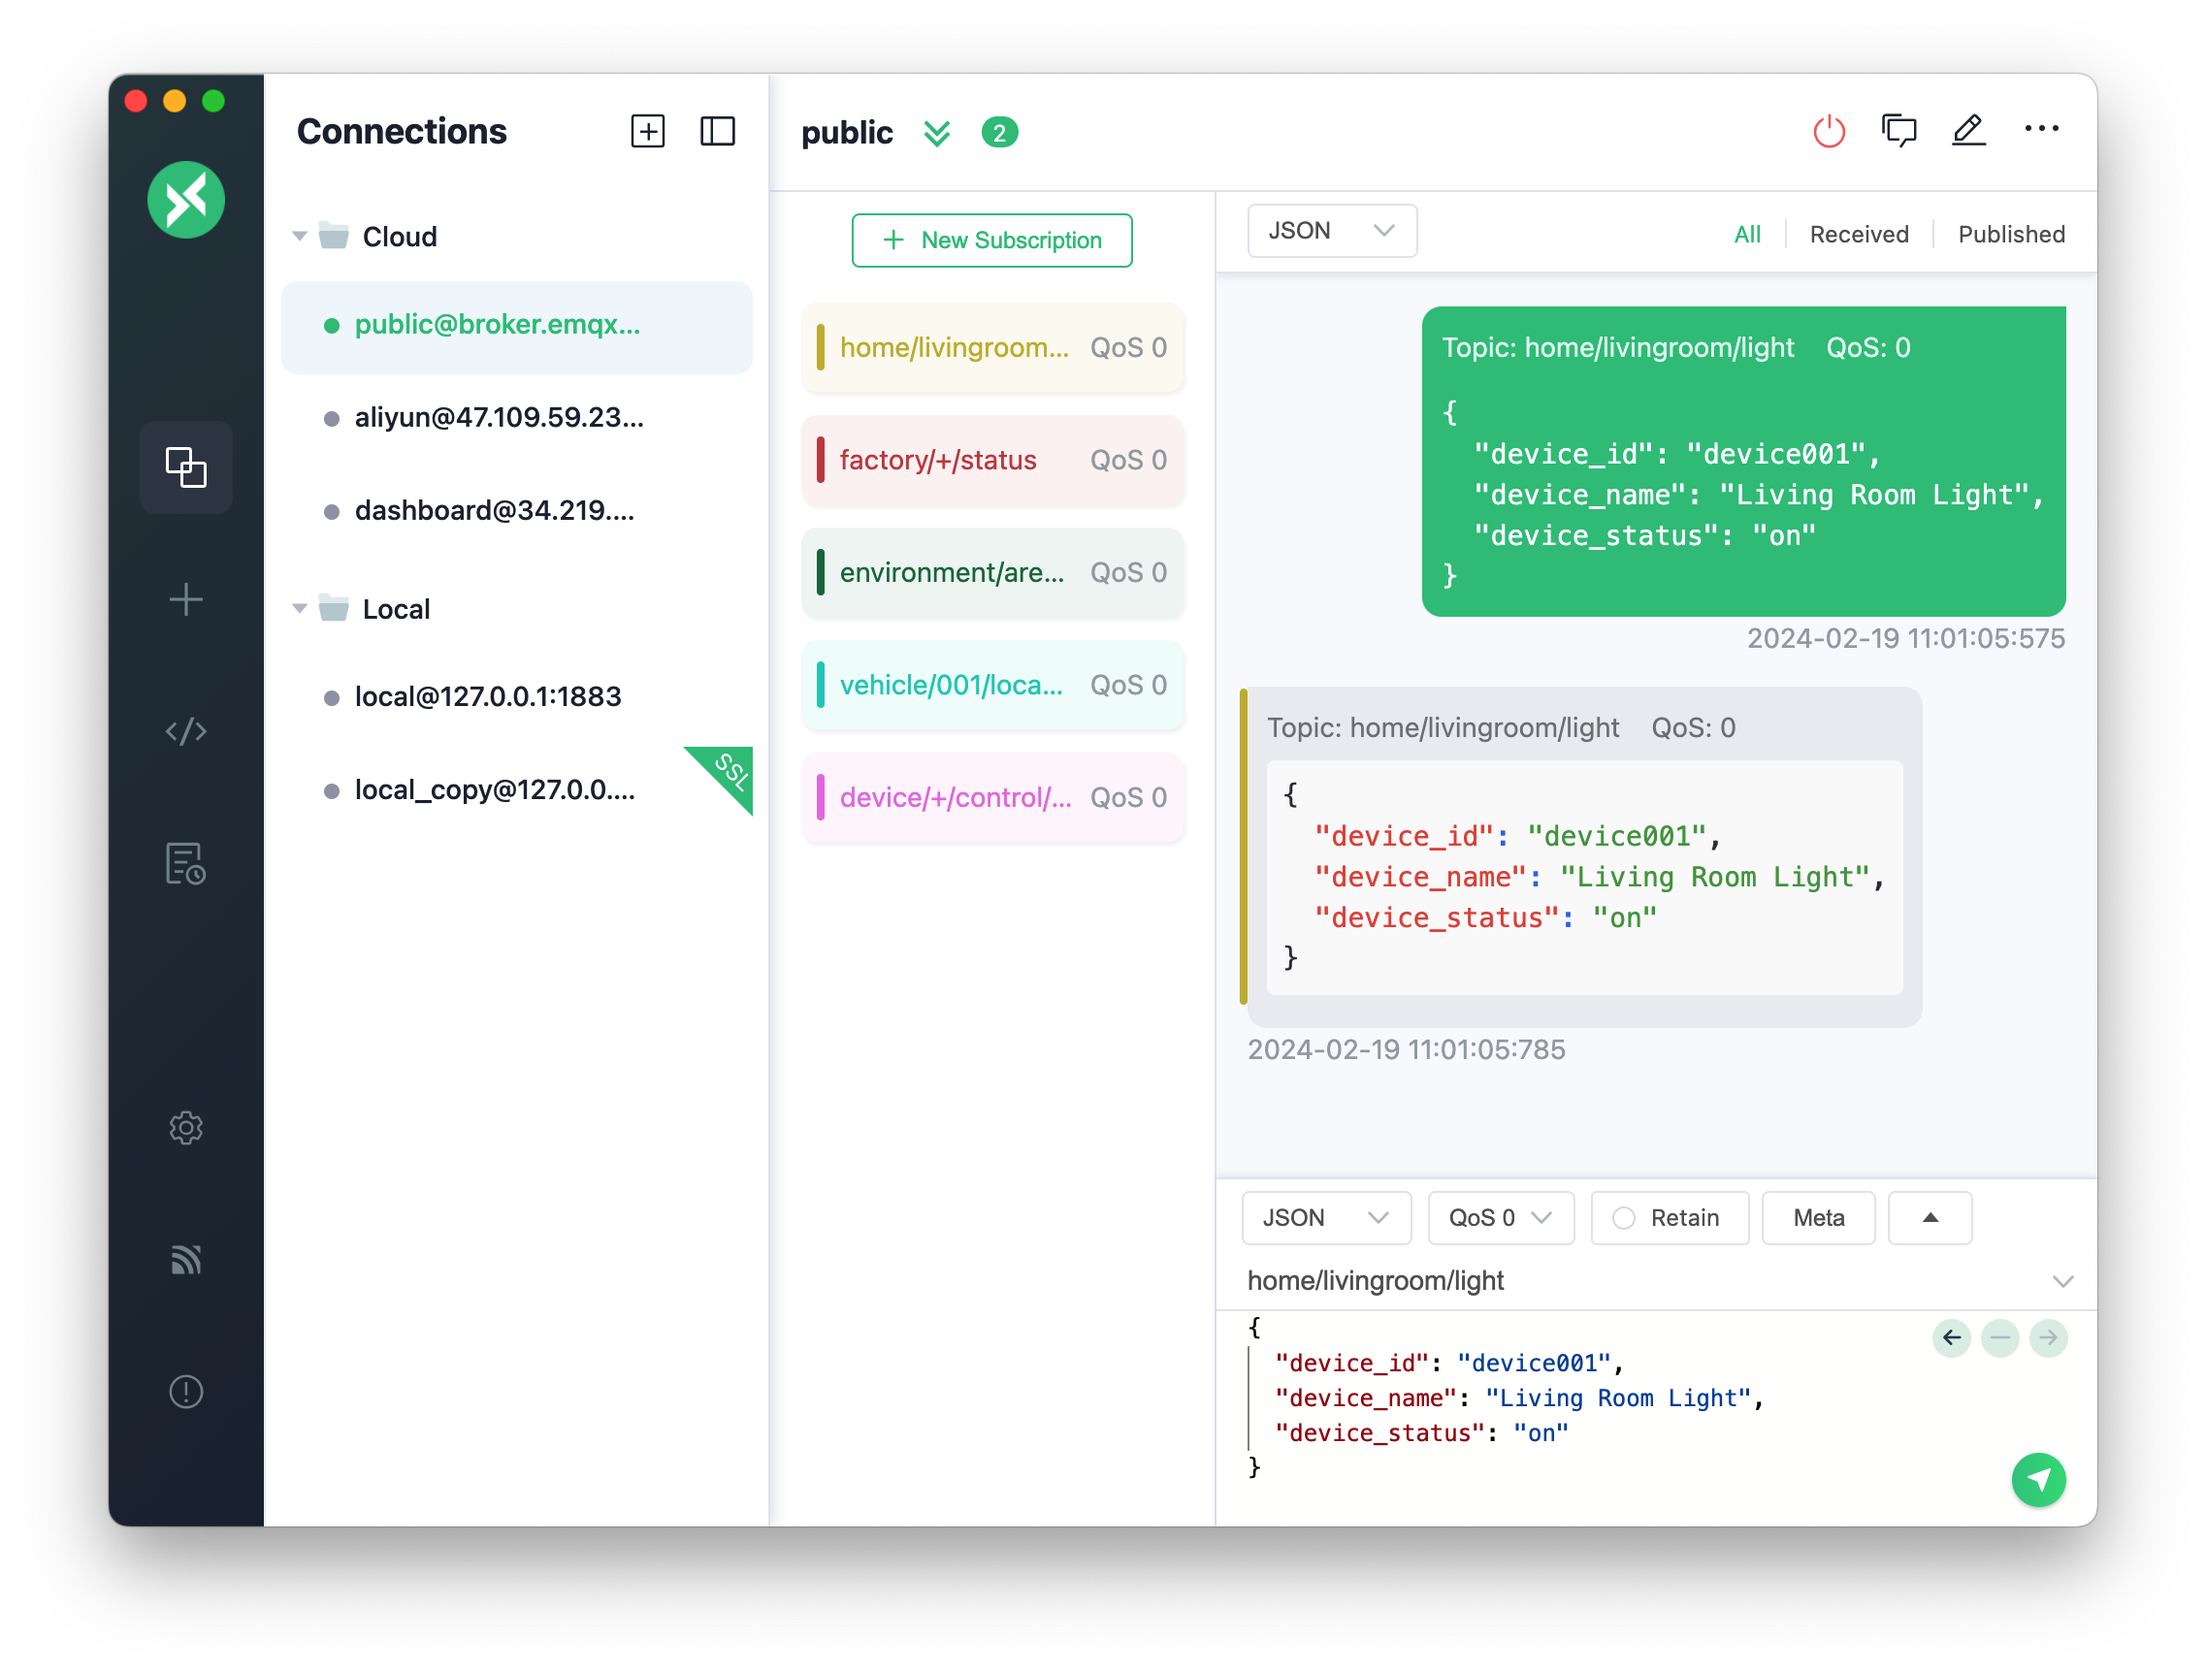
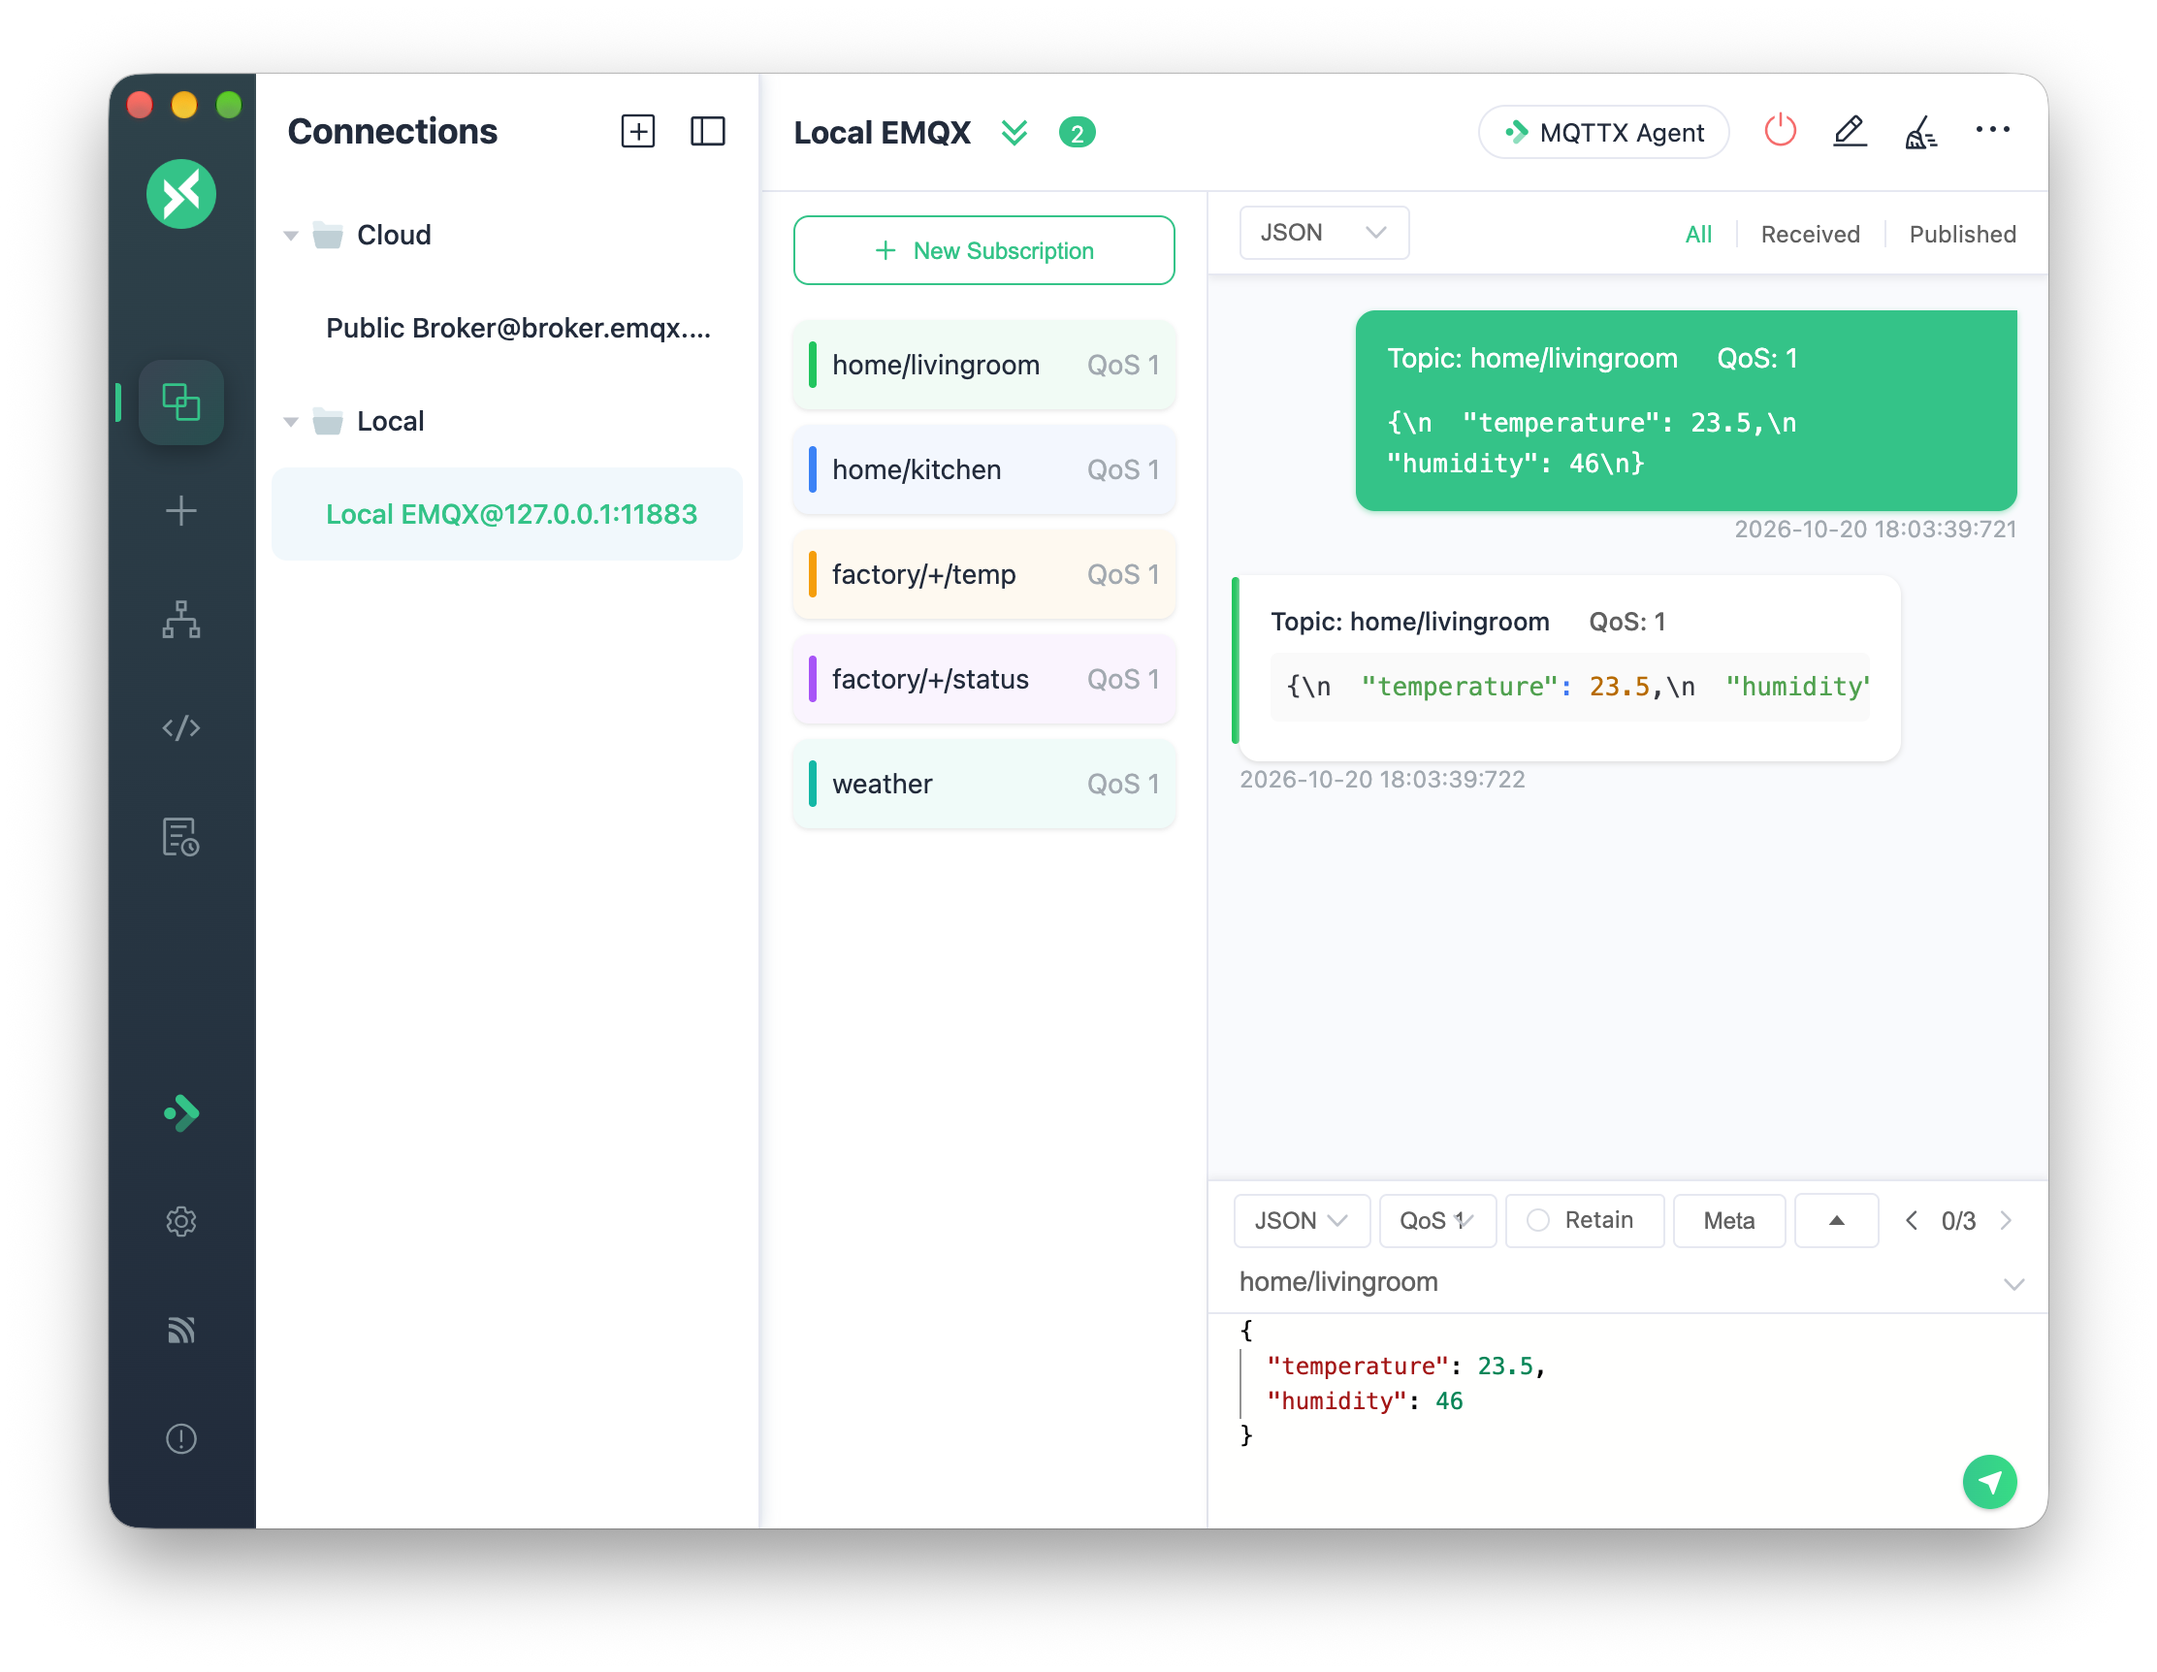
docs: refresh desktop screenshots and Agent references

diff --git a/docs/desktop/en/use-desktop/agent.md b/docs/desktop/en/use-desktop/agent.md
@@ -2,20 +2,22 @@
 
 MQTTX Agent is an assistant built into the MQTTX desktop client. You ask for something in plain language and it operates MQTTX for you through tools: it creates and connects connections, subscribes and publishes, reads messages, and calls your MCP tools. Every action runs through the same MQTTX code paths as a manual action, so the connection list, subscription list and message list update in real time.
 
+![MQTTX Agent panel](/images/mqttx-agent.png)
+
 ## Enable and configure
 
 1. Open **Settings → MQTTX Agent** and turn on **Enable MQTTX Agent**.
 2. Fill in the **API Host**, **API Key** and **Model** of your provider. Common hosts:
 
-| Provider | API Host |
-| --- | --- |
-| OpenAI | `https://api.openai.com/v1` |
-| DeepSeek | `https://api.deepseek.com/v1` |
-| Anthropic | `https://api.anthropic.com/v1` |
-| xAI | `https://api.x.ai/v1` |
-| Google | `https://generativelanguage.googleapis.com/v1beta` |
-| SiliconFlow | `https://api.siliconflow.cn/v1` |
-| Azure OpenAI | `https://<resourceName>.openai.azure.com` |
+| Provider     | API Host                                           |
+| ------------ | -------------------------------------------------- |
+| OpenAI       | `https://api.openai.com/v1`                        |
+| DeepSeek     | `https://api.deepseek.com/v1`                      |
+| Anthropic    | `https://api.anthropic.com/v1`                     |
+| xAI          | `https://api.x.ai/v1`                              |
+| Google       | `https://generativelanguage.googleapis.com/v1beta` |
+| SiliconFlow  | `https://api.siliconflow.cn/v1`                    |
+| Azure OpenAI | `https://<resourceName>.openai.azure.com`          |
 
 3. Open the Agent full screen with the star button in the left bar, or as a floating window with `Cmd/Ctrl + J` or the **MQTTX Agent** button at the top right of a connection or script page.
 

diff --git a/docs/desktop/zh/use-desktop/agent.md b/docs/desktop/zh/use-desktop/agent.md
@@ -2,20 +2,22 @@
 
 MQTTX Agent 是内置于 MQTTX 桌面客户端的助手。你用自然语言提出需求，它会通过工具来操作 MQTTX：创建并连接连接、订阅与发布、读取消息，以及调用你的 MCP 工具。每个操作都走 MQTTX 现有的代码路径，和手动操作一致，因此连接列表、订阅列表和消息列表会实时更新。
 
+![MQTTX Agent 面板](/images/mqttx-agent.png)
+
 ## 开启与配置
 
 1. 打开 **设置 → MQTTX Agent**，打开 **启用 MQTTX Agent**。
 2. 填写你的服务商的 **API Host**、**API Key** 和 **模型**。常用地址：
 
-| 服务商 | API Host |
-| --- | --- |
-| OpenAI | `https://api.openai.com/v1` |
-| DeepSeek | `https://api.deepseek.com/v1` |
-| Anthropic | `https://api.anthropic.com/v1` |
-| xAI | `https://api.x.ai/v1` |
-| Google | `https://generativelanguage.googleapis.com/v1beta` |
-| SiliconFlow | `https://api.siliconflow.cn/v1` |
-| Azure OpenAI | `https://<resourceName>.openai.azure.com` |
+| 服务商       | API Host                                           |
+| ------------ | -------------------------------------------------- |
+| OpenAI       | `https://api.openai.com/v1`                        |
+| DeepSeek     | `https://api.deepseek.com/v1`                      |
+| Anthropic    | `https://api.anthropic.com/v1`                     |
+| xAI          | `https://api.x.ai/v1`                              |
+| Google       | `https://generativelanguage.googleapis.com/v1beta` |
+| SiliconFlow  | `https://api.siliconflow.cn/v1`                    |
+| Azure OpenAI | `https://<resourceName>.openai.azure.com`          |
 
 3. 通过左侧导航栏的星形按钮以全屏打开 Agent，或通过 `Cmd/Ctrl + J`、连接页或脚本页的 **MQTTX Agent** 按钮打开浮窗。
 
